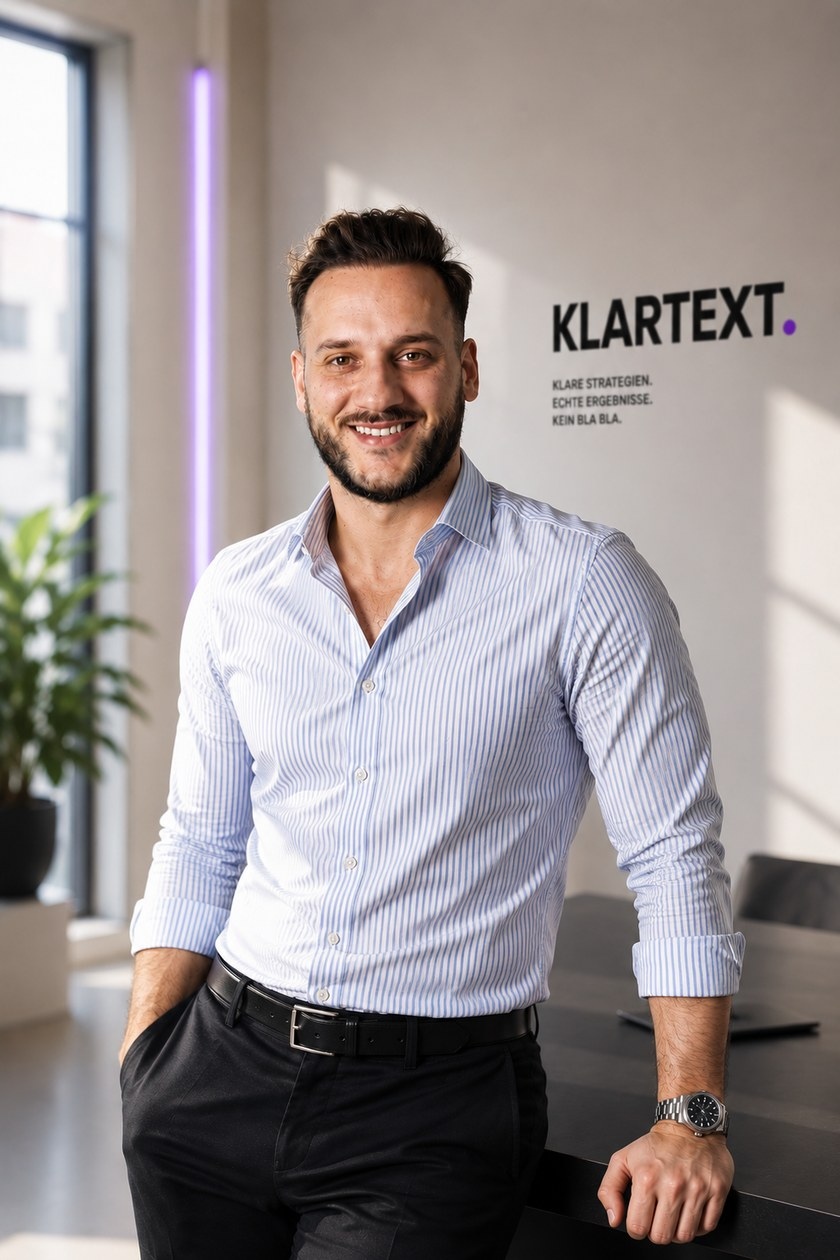
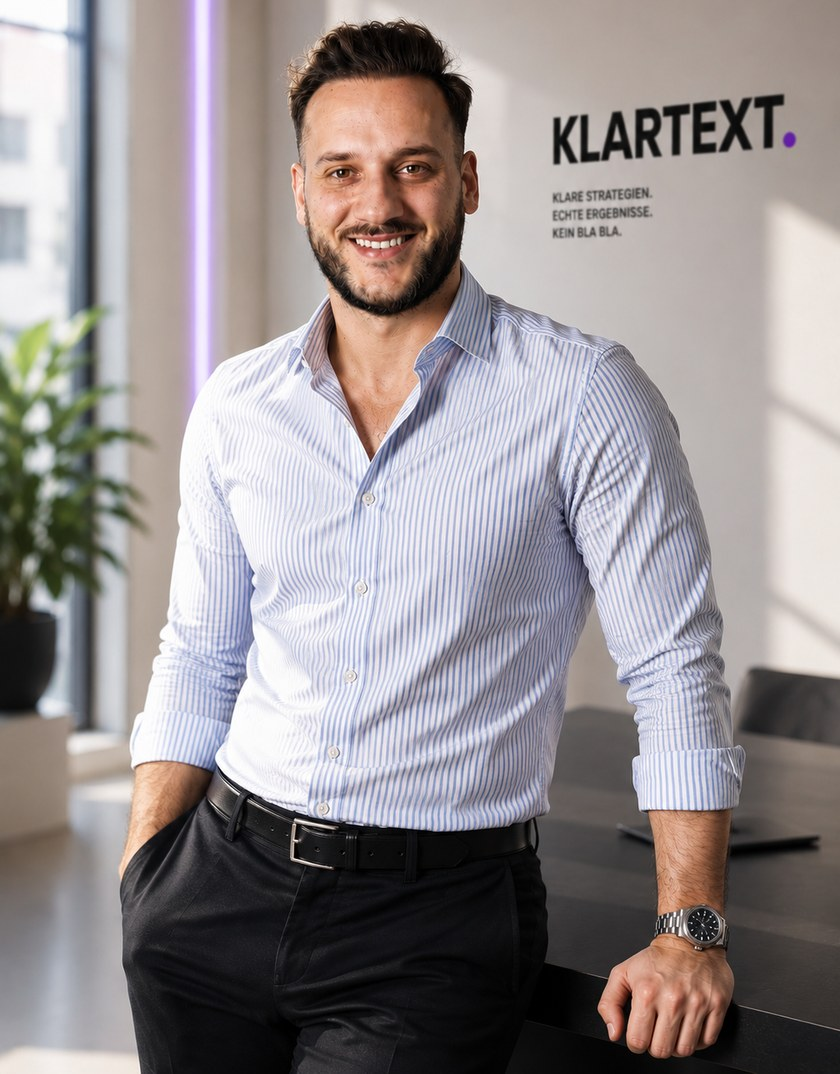
Pia zurueck auf ihren Stand, Auftraggeber an sie angeglichen
- Pias Datei ist wieder das reine, ungeschnittene Original, nur
  verkleinert (840x1050). Der angesetzte Hintergrund oben und der
  Beschnitt unten und seitlich sind rueckgaengig — sie wirkte damit
  naeher, und ihr Stand war freigegeben.
- Angeglichen wird jetzt ueber SEIN Bild: 229 px Deckenflaeche oben
  weg (840x1074, Verhaeltnis 0.782).
- Warum das reicht und warum nur oben: liegt das Seitenverhaeltnis
  UEBER dem der offenen Lamelle (0.72), skaliert object-fit in beiden
  Zustaenden nach der Hoehe. Beide Bilder sind dann in jedem Zustand
  gleich gross abgebildet, und die Augenlinie haengt allein am
  Bildaufbau. Pia liegt bei 12.85 % der Bildhoehe; sein Beschnitt
  bringt ihn auf denselben Wert.
- Nachgemessen im Schuss (Lamellen freigestellt, gleiche Hoehe,
  Raster): Augenlinie 68 zu 62, Kinn 132 zu 132, Auge-bis-Kinn 64 zu
  70. Vorher lagen die Augenlinien 90 px auseinander.
- --bildpos beide auf senkrecht 50 %: bei diesem Verhaeltnis wird
  senkrecht gar nichts beschnitten, der Wert ist wirkungslos.
  Waagrecht 45 % (er) und 51 % (sie), damit beide im schmalen
  Streifen mittig sitzen.

Rauchtest: Sektionen vollzaehlig, keine Konsolenfehler, kein Querlauf
(1585/1600), Hoehe 13506.

diff --git a/index.html b/index.html
@@ -316,11 +316,11 @@
            laesst sich ein zu helles oder zu dunkles Foto an die
            anderen angleichen, ohne die Datei zu bearbeiten. -->
       <div class="lamellen" id="lamellen">
-        <button class="lamelle ist" type="button" aria-pressed="true" style="--bildpos:44% 30%;--ton:.85">
+        <button class="lamelle ist" type="button" aria-pressed="true" style="--bildpos:45% 50%;--ton:.85">
           <img src="bilder/portrait-1.jpg" alt="">
           <span class="lamelle__schild"><b>Dušan</b><i>Gründer</i></span>
         </button>
-        <button class="lamelle" type="button" aria-pressed="false" style="--bildpos:54% 30%;--ton:.85">
+        <button class="lamelle" type="button" aria-pressed="false" style="--bildpos:51% 50%;--ton:.85">
           <img src="bilder/portrait-2.jpg" alt="">
           <span class="lamelle__schild"><b>Pia</b><i>Marketing Manager</i></span>
         </button>
